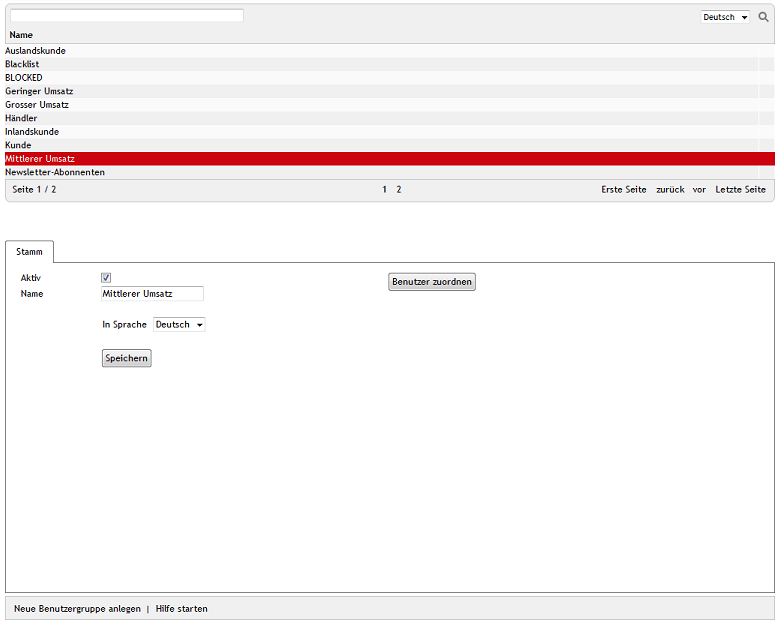
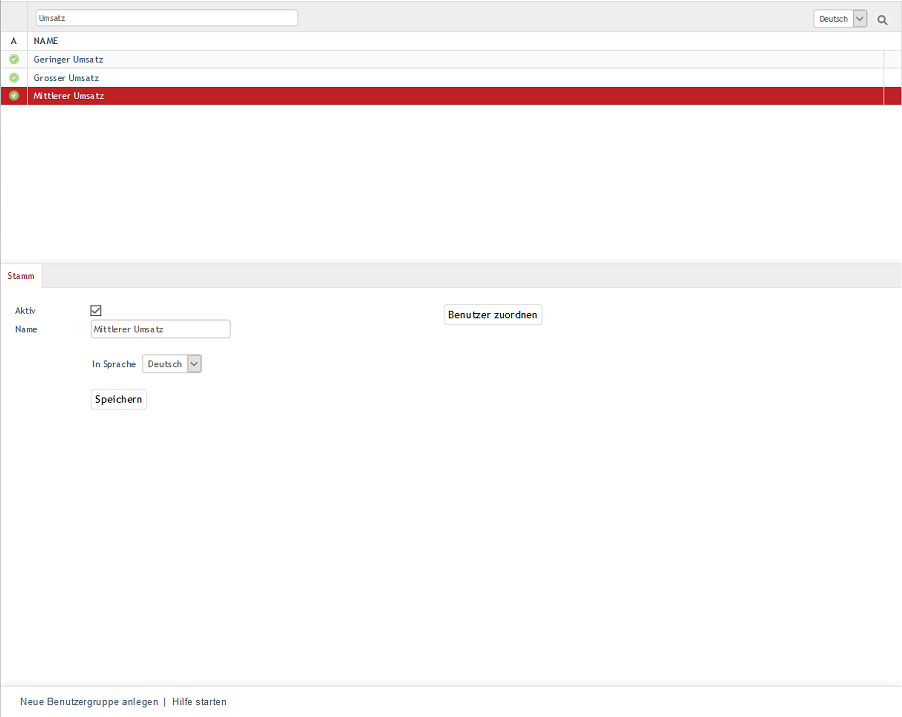
New screenshots for /betrieb/benutzergruppen

diff --git a/betrieb/benutzergruppen/benutzergruppen.rst b/betrieb/benutzergruppen/benutzergruppen.rst
@@ -1,10 +1,11 @@
 Benutzergruppen
 ===============
+
 Benutzergruppen dienen dazu, Benutzer mit bestimmten Eigenschaften zusammenzufassen. Solche Eigenschaften können beispielsweise der Status des Benutzers, der bisherigen Umsatz im Shop, die Anmeldung für den Newsletter oder spezielle Preise für bestimmte Artikel sein. Benutzer, die einer Benutzergruppe angehören, lassen sich an anderer Stelle komfortabel zuordnen. Mit nur wenigen Mausklicks können Zahlungs- und Versandarten, Versandkostenregeln, Rabatte, Gutscheinserien etc. zugewiesen werden.
 
 .. image:: ../../media/screenshots-de/oxbadz01.png
    :alt: Benutzergruppen
-   :height: 521
+   :height: 517
    :width: 650
 
 Benutzergruppen können Sie im Administrationsbereich unter :menuselection:`Benutzer verwalten --> Benutzergruppen` bearbeiten. Es werden eine Liste der Benutzergruppen und darunter der Eingabebereich für die Benutzergruppe angezeigt. In der Liste kann nach dem Namen der Benutzergruppe gesucht werden. Verwenden Sie dafür das vorhandene Suchfeld. Wenn Sie beispielsweise \"a\" eingeben, werden alle Benutzergruppen angezeigt, die diesen Buchstaben in ihrem Namen haben.

diff --git a/betrieb/benutzergruppen/registerkarte-stamm.rst b/betrieb/benutzergruppen/registerkarte-stamm.rst
@@ -1,10 +1,11 @@
 Registerkarte Stamm
 ===================
+
 Auf der Registerkarte :guilabel:`Stamm` kann der Name einer Benutzergruppe angegeben bzw. geändert werden. Die Benutzergruppe lässt sich hier aktivieren oder deaktivieren. Wird eine Benutzergruppe neu angelegt, wird nach dem ersten Speichern eine zusätzliche Schaltfläche :guilabel:`Kopieren` angezeigt. Nach Auswahl der Sprache aus einer Dropdown-Liste kann die Benutzergruppe in diese Sprache des Shops kopiert und bearbeitet werden.
 
 .. image:: ../../media/screenshots-de/oxbaea01.png
    :alt: Benutzergruppen - Registerkarte Stamm
-   :height: 321
+   :height: 334
    :width: 650
 
 :guilabel:`Aktiv` |br|
